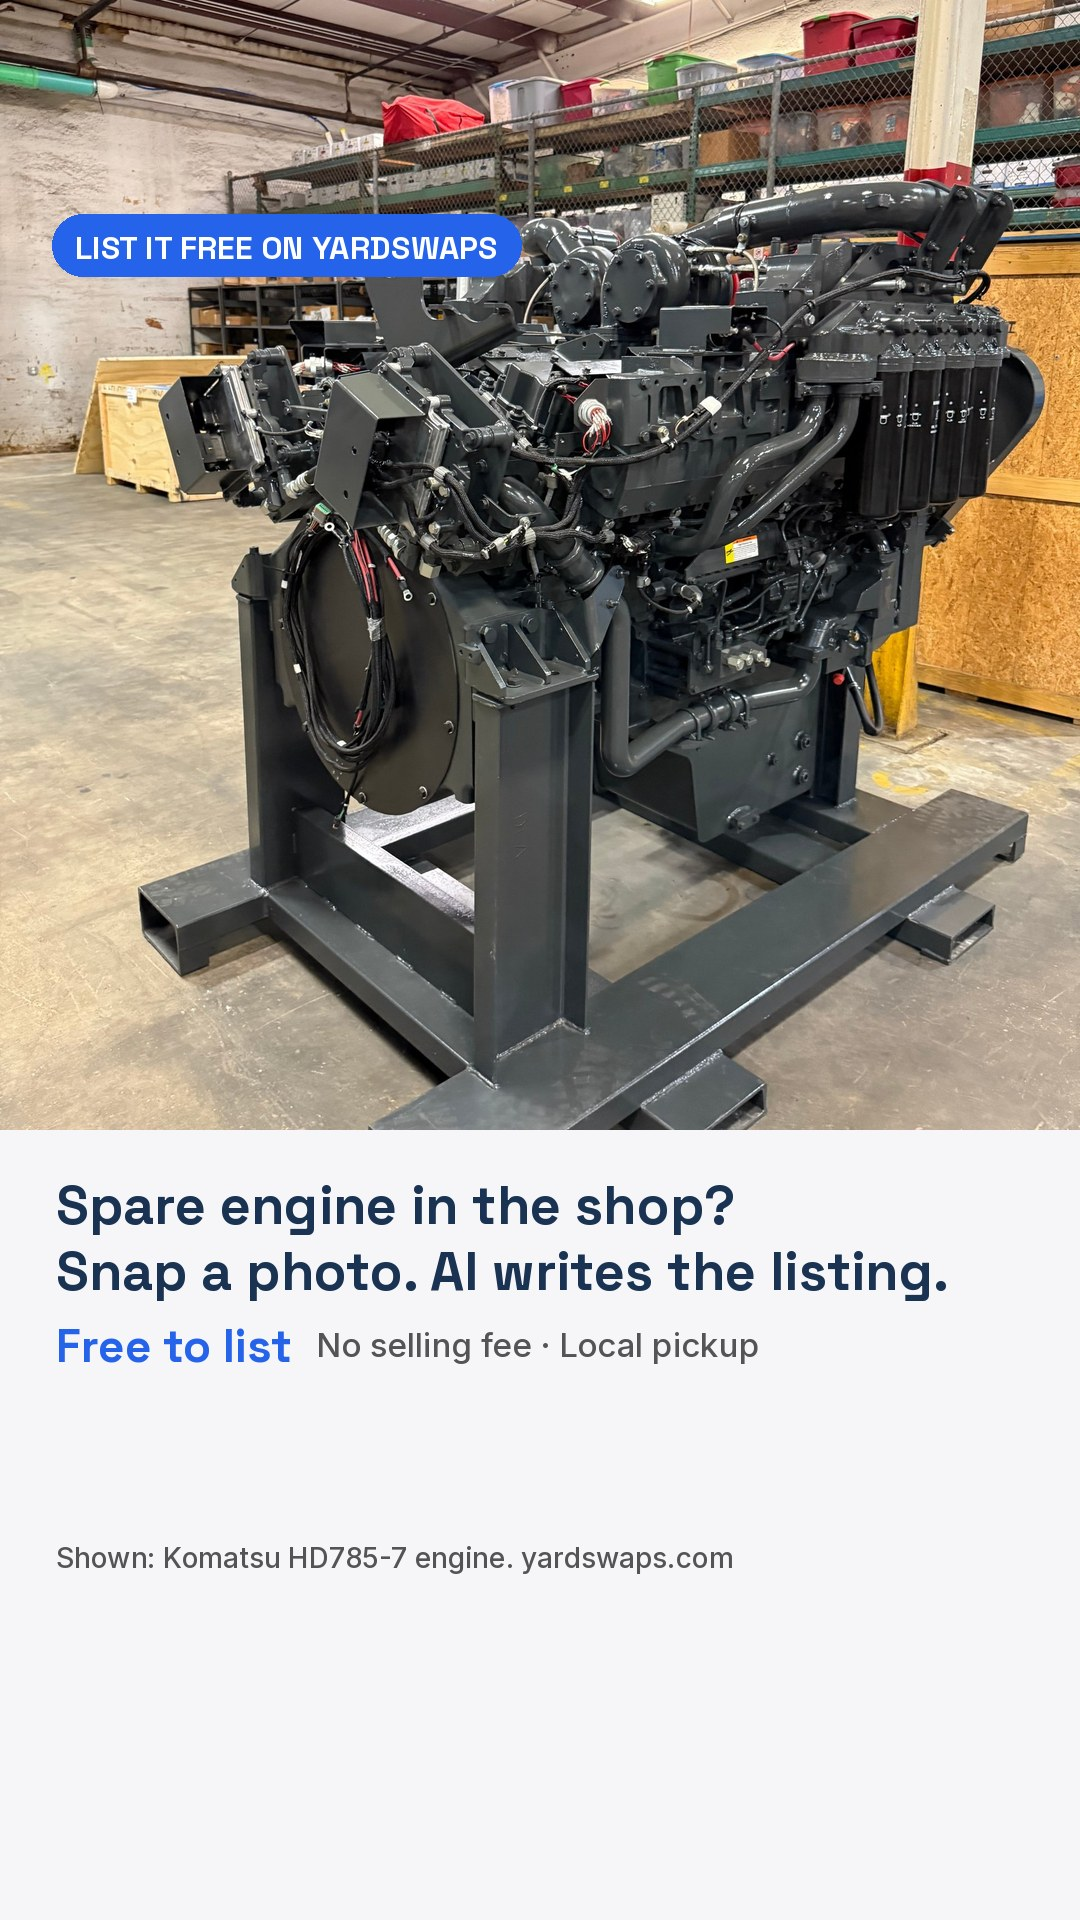
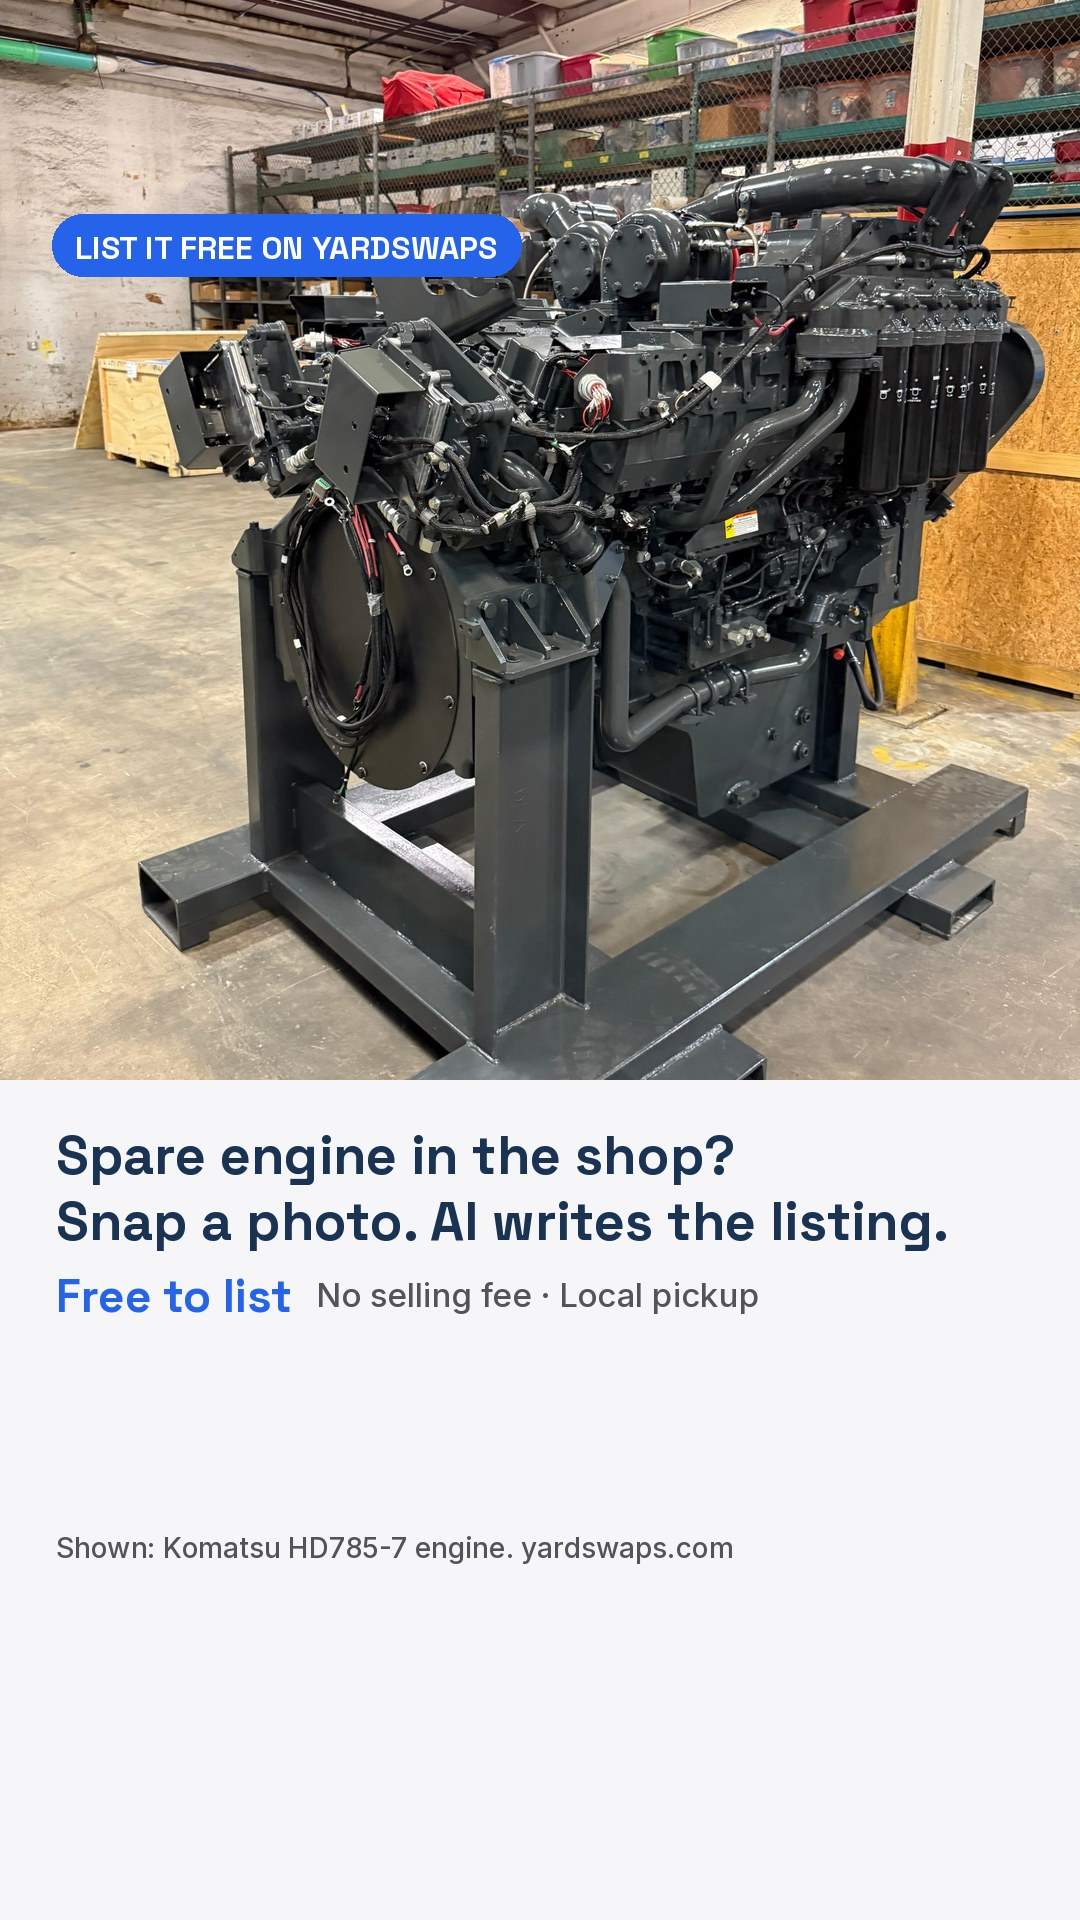
Linked Stories: taller empty band on the seller Story cards for the link sticker
The link sticker is about 740 x 140 px at Story size, so the photo is 1080 px
tall and the footer sits at y 1530, which leaves the sticker a clear band.

Claude-Session: https://claude.ai/code/session_01LSYGzeUgq9fnmqx8BJzKeC

diff --git a/brand/posts/make_seller_cards.py b/brand/posts/make_seller_cards.py
@@ -76,9 +76,10 @@ def card(ph, line1, line2, shown, anchor=(0.5, 0.5)):
 def story(ph, line1, line2, shown, anchor=(0.5, 0.5)):
     """The same card at Story size (1080x1920) for the linked Stories (stories/linked/). The photo runs from
     the top edge; the label starts under the top 200 px that the app covers with the account name; the link
-    sticker goes on the empty band between the blue line and the footer (centre about y 1455); nothing to read
+    sticker (about 740 x 140 px at this size) goes on the empty band between the blue line and the footer,
+    centre about y 1425; nothing to read
     in the bottom 340 px."""
-    SW, SH, SPH = 1080, 1920, 1130
+    SW, SH, SPH = 1080, 1920, 1080
     img = Image.new("RGB", (SW, SH), BG)
     s = max(SW / ph.width, SPH / ph.height)
     ph = ph.resize((int(ph.width * s + 0.5), int(ph.height * s + 0.5)), Image.LANCZOS)
@@ -103,7 +104,7 @@ def story(ph, line1, line2, shown, anchor=(0.5, 0.5)):
     ff = font("Inter.ttf", 28, b"Medium")
     foot = f"Shown: {shown}. yardswaps.com"
     assert d.textlength(foot, font=ff) <= SW - 2 * PAD, foot
-    d.text((PAD, 1540), foot, font=ff, fill=GRAY)
+    d.text((PAD, 1530), foot, font=ff, fill=GRAY)
     return img
 
 
